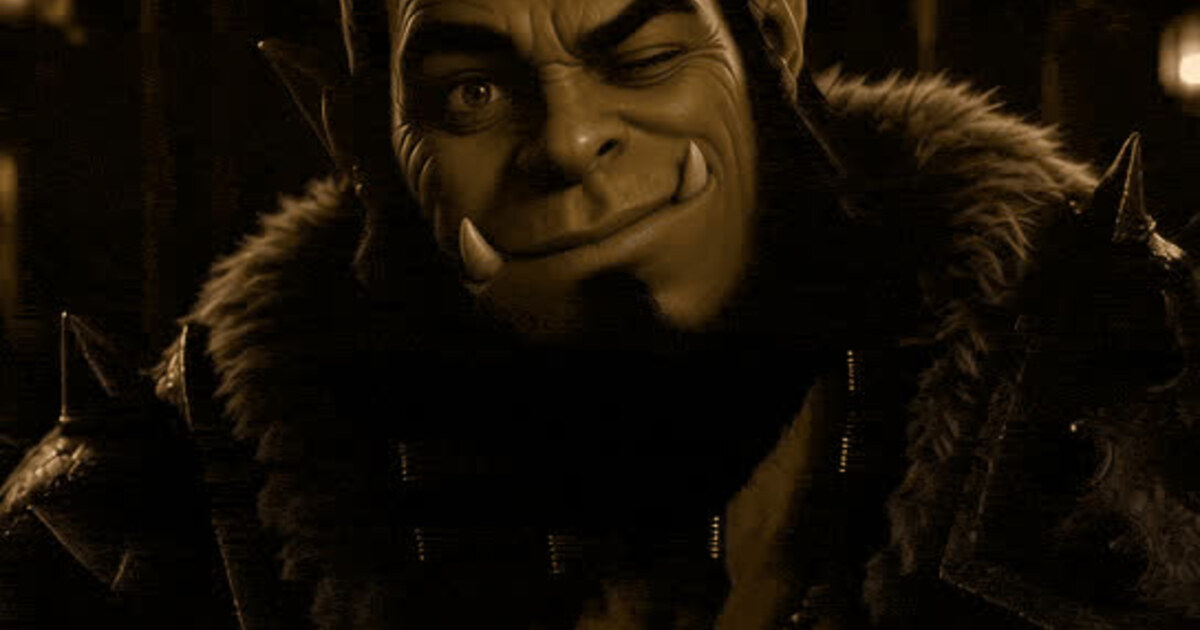
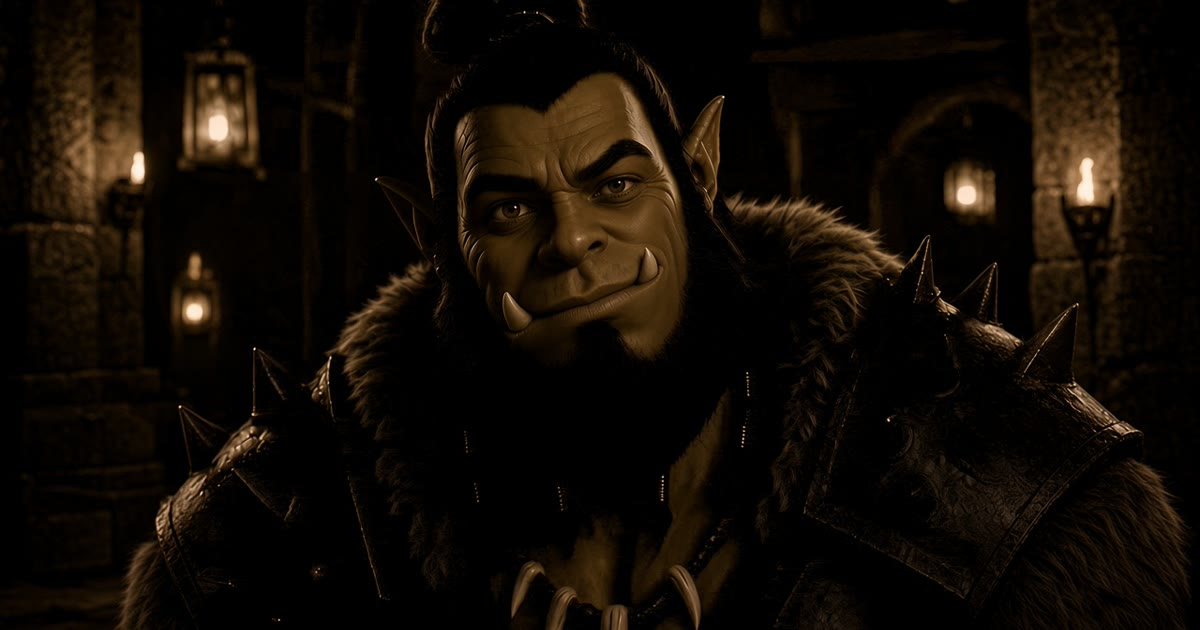
Reshoot Wink as one wink from open eyes.
He starts with both eyes open, winks once, and opens that eye again.

diff --git a/scripts/imagine-video.ts b/scripts/imagine-video.ts
@@ -32,7 +32,7 @@ const DURATIONS: Record<string, number> = {
   "something-good": 6,
   "start-camera": 6,
   "touch-grass": 6,
-  wink: 8,
+  wink: 4,
 };
 const POLL_MS = 5000;
 const SKIP_SLUGS = new Set(["orc-smile"]);
@@ -154,7 +154,7 @@ const PROMPTS: Record<string, string> = {
   wave:
     "The orc waves hello with his raised hand, a warm friendly smile holding, a couple of waves. Locked camera.",
   wink:
-    "This frame is already a one-eye wink. Hold that exact wink for most of the clip: the closed eye stays fully shut, the open eye stays wide open and looks at the camera, sly smile holding. Only near the end, open the closed eye so both eyes are open and he smiles. Never close the open eye. Not a blink. Mouth stays closed. Locked camera, no zoom.",
+    "Both eyes start open. He winks once: one eye closes, then that eye opens again. The other eye stays open the whole time. One wink only. Closed-mouth sly smile. Mouth stays closed. Locked camera, no zoom.",
   working:
     "The orc types on the laptop, fingers moving, screen glow on his face, a focused blink. Locked camera.",
 };
